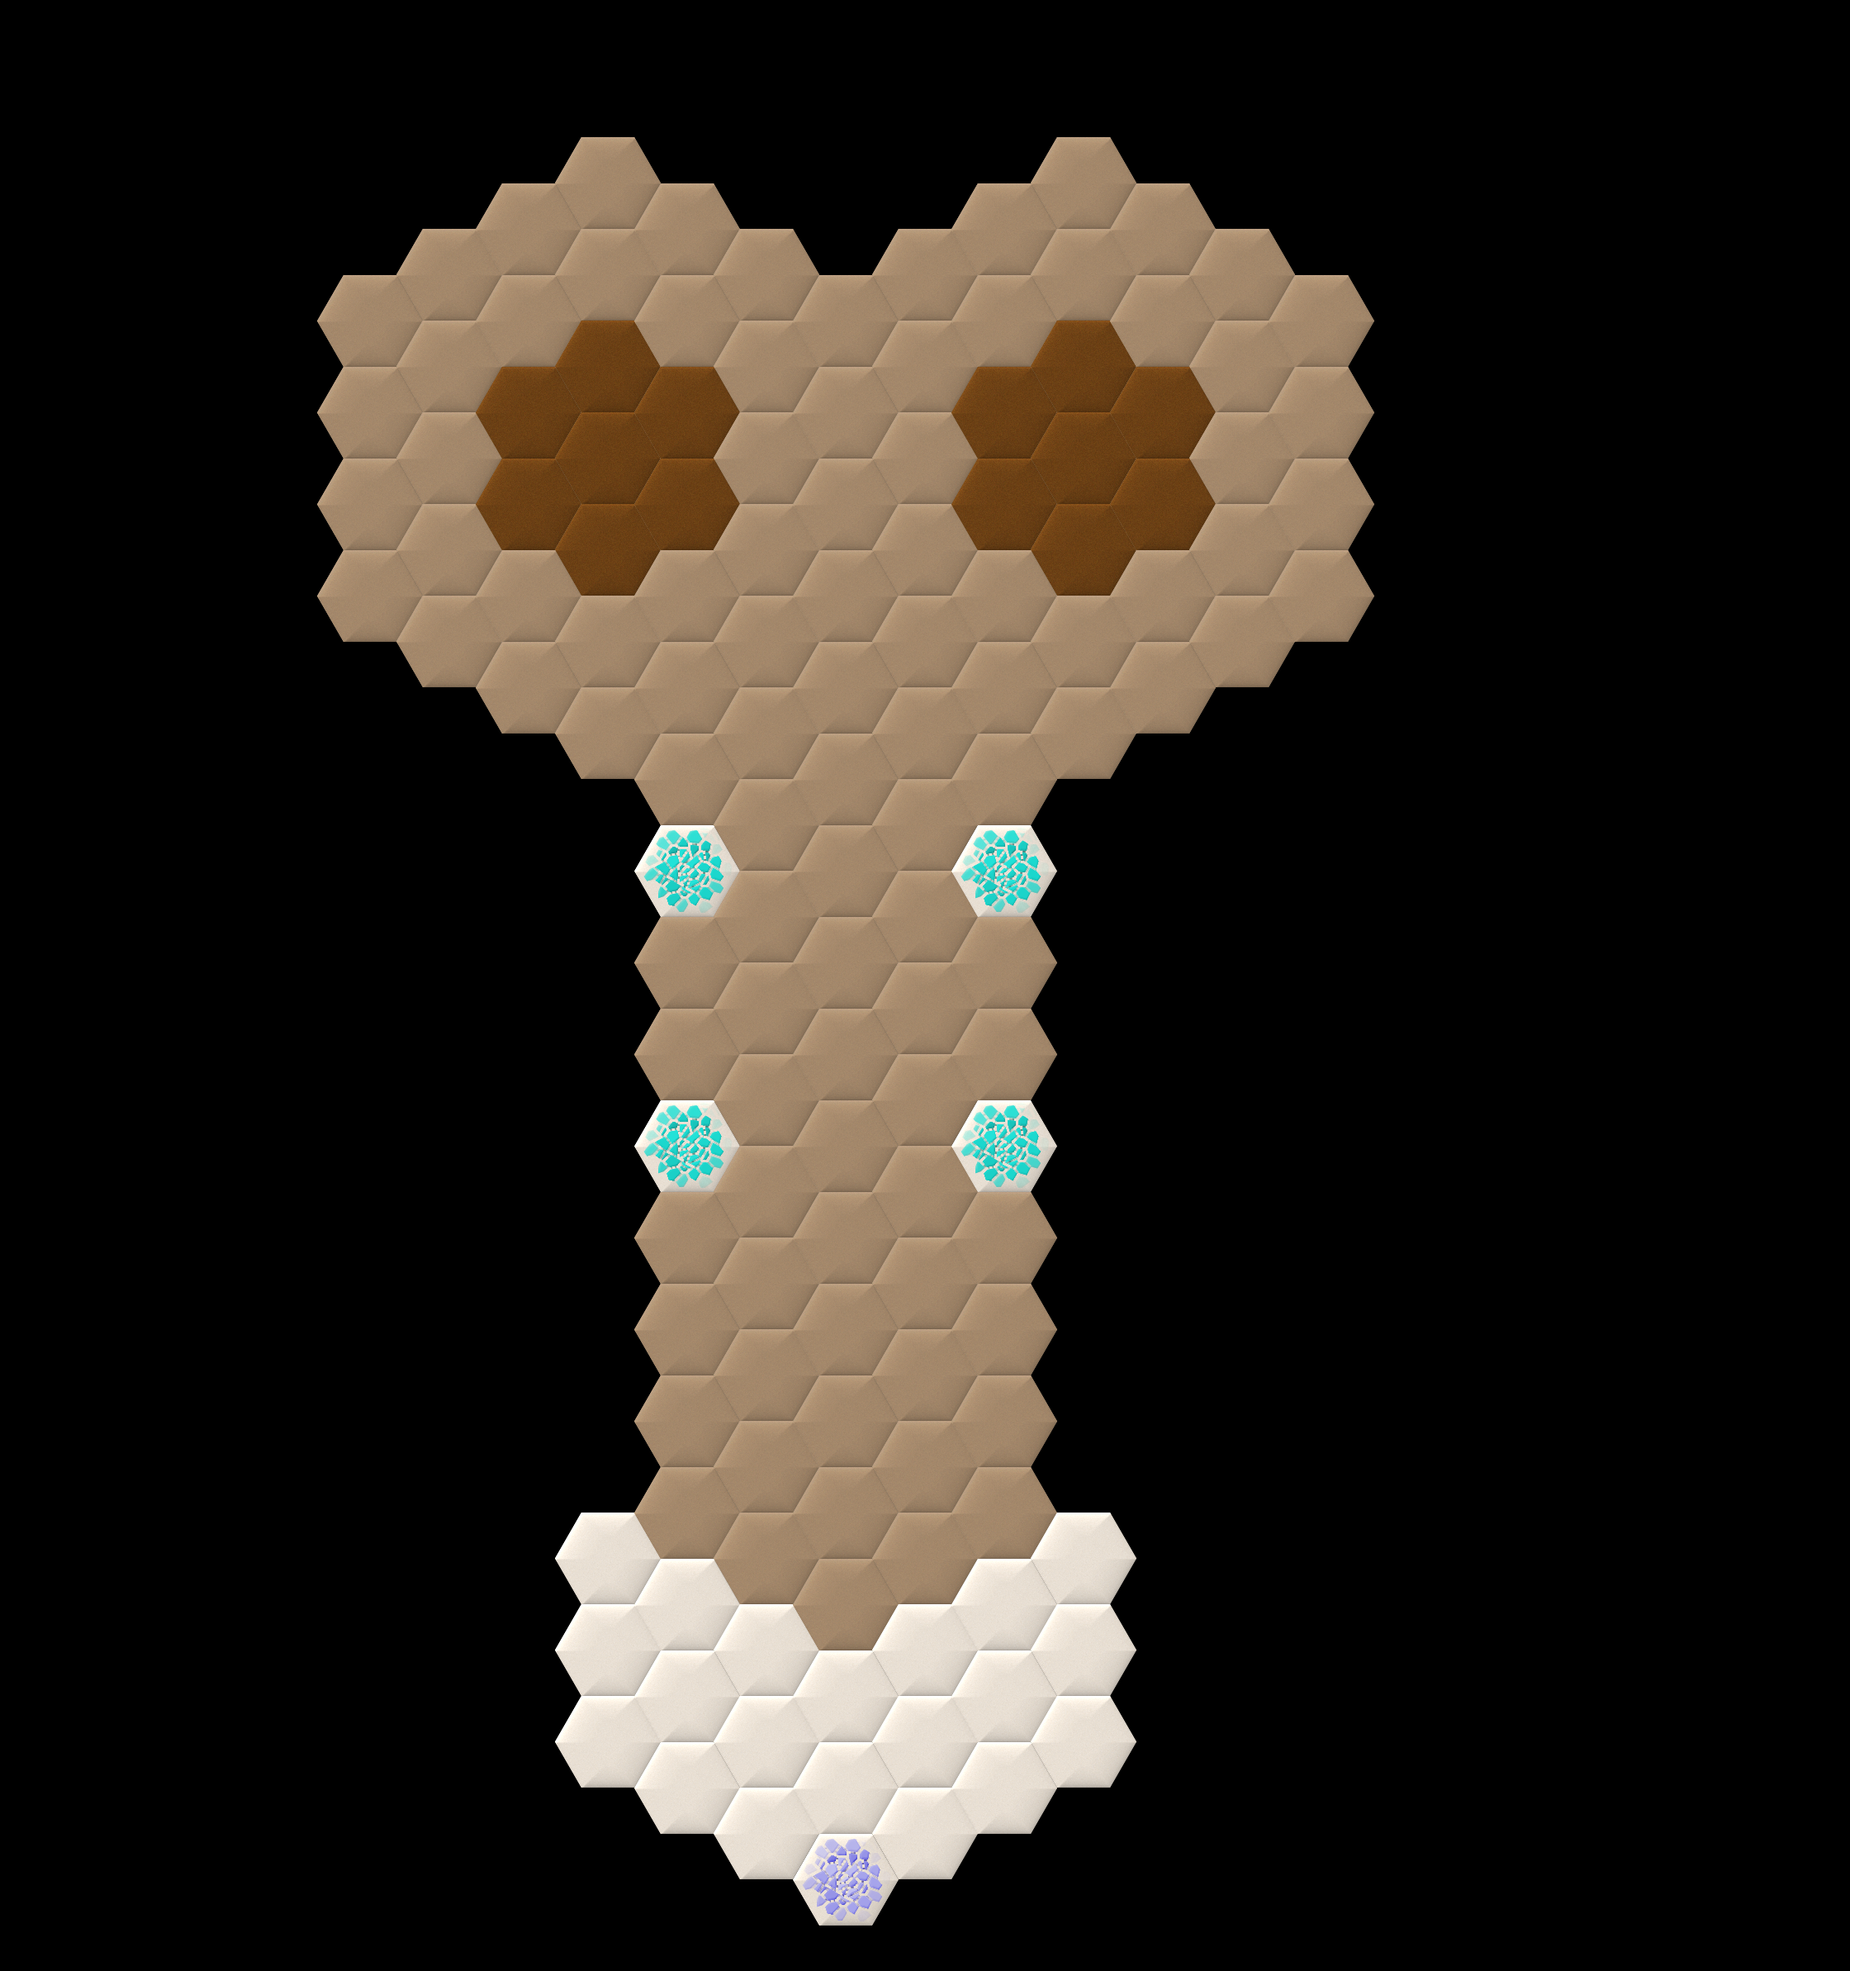
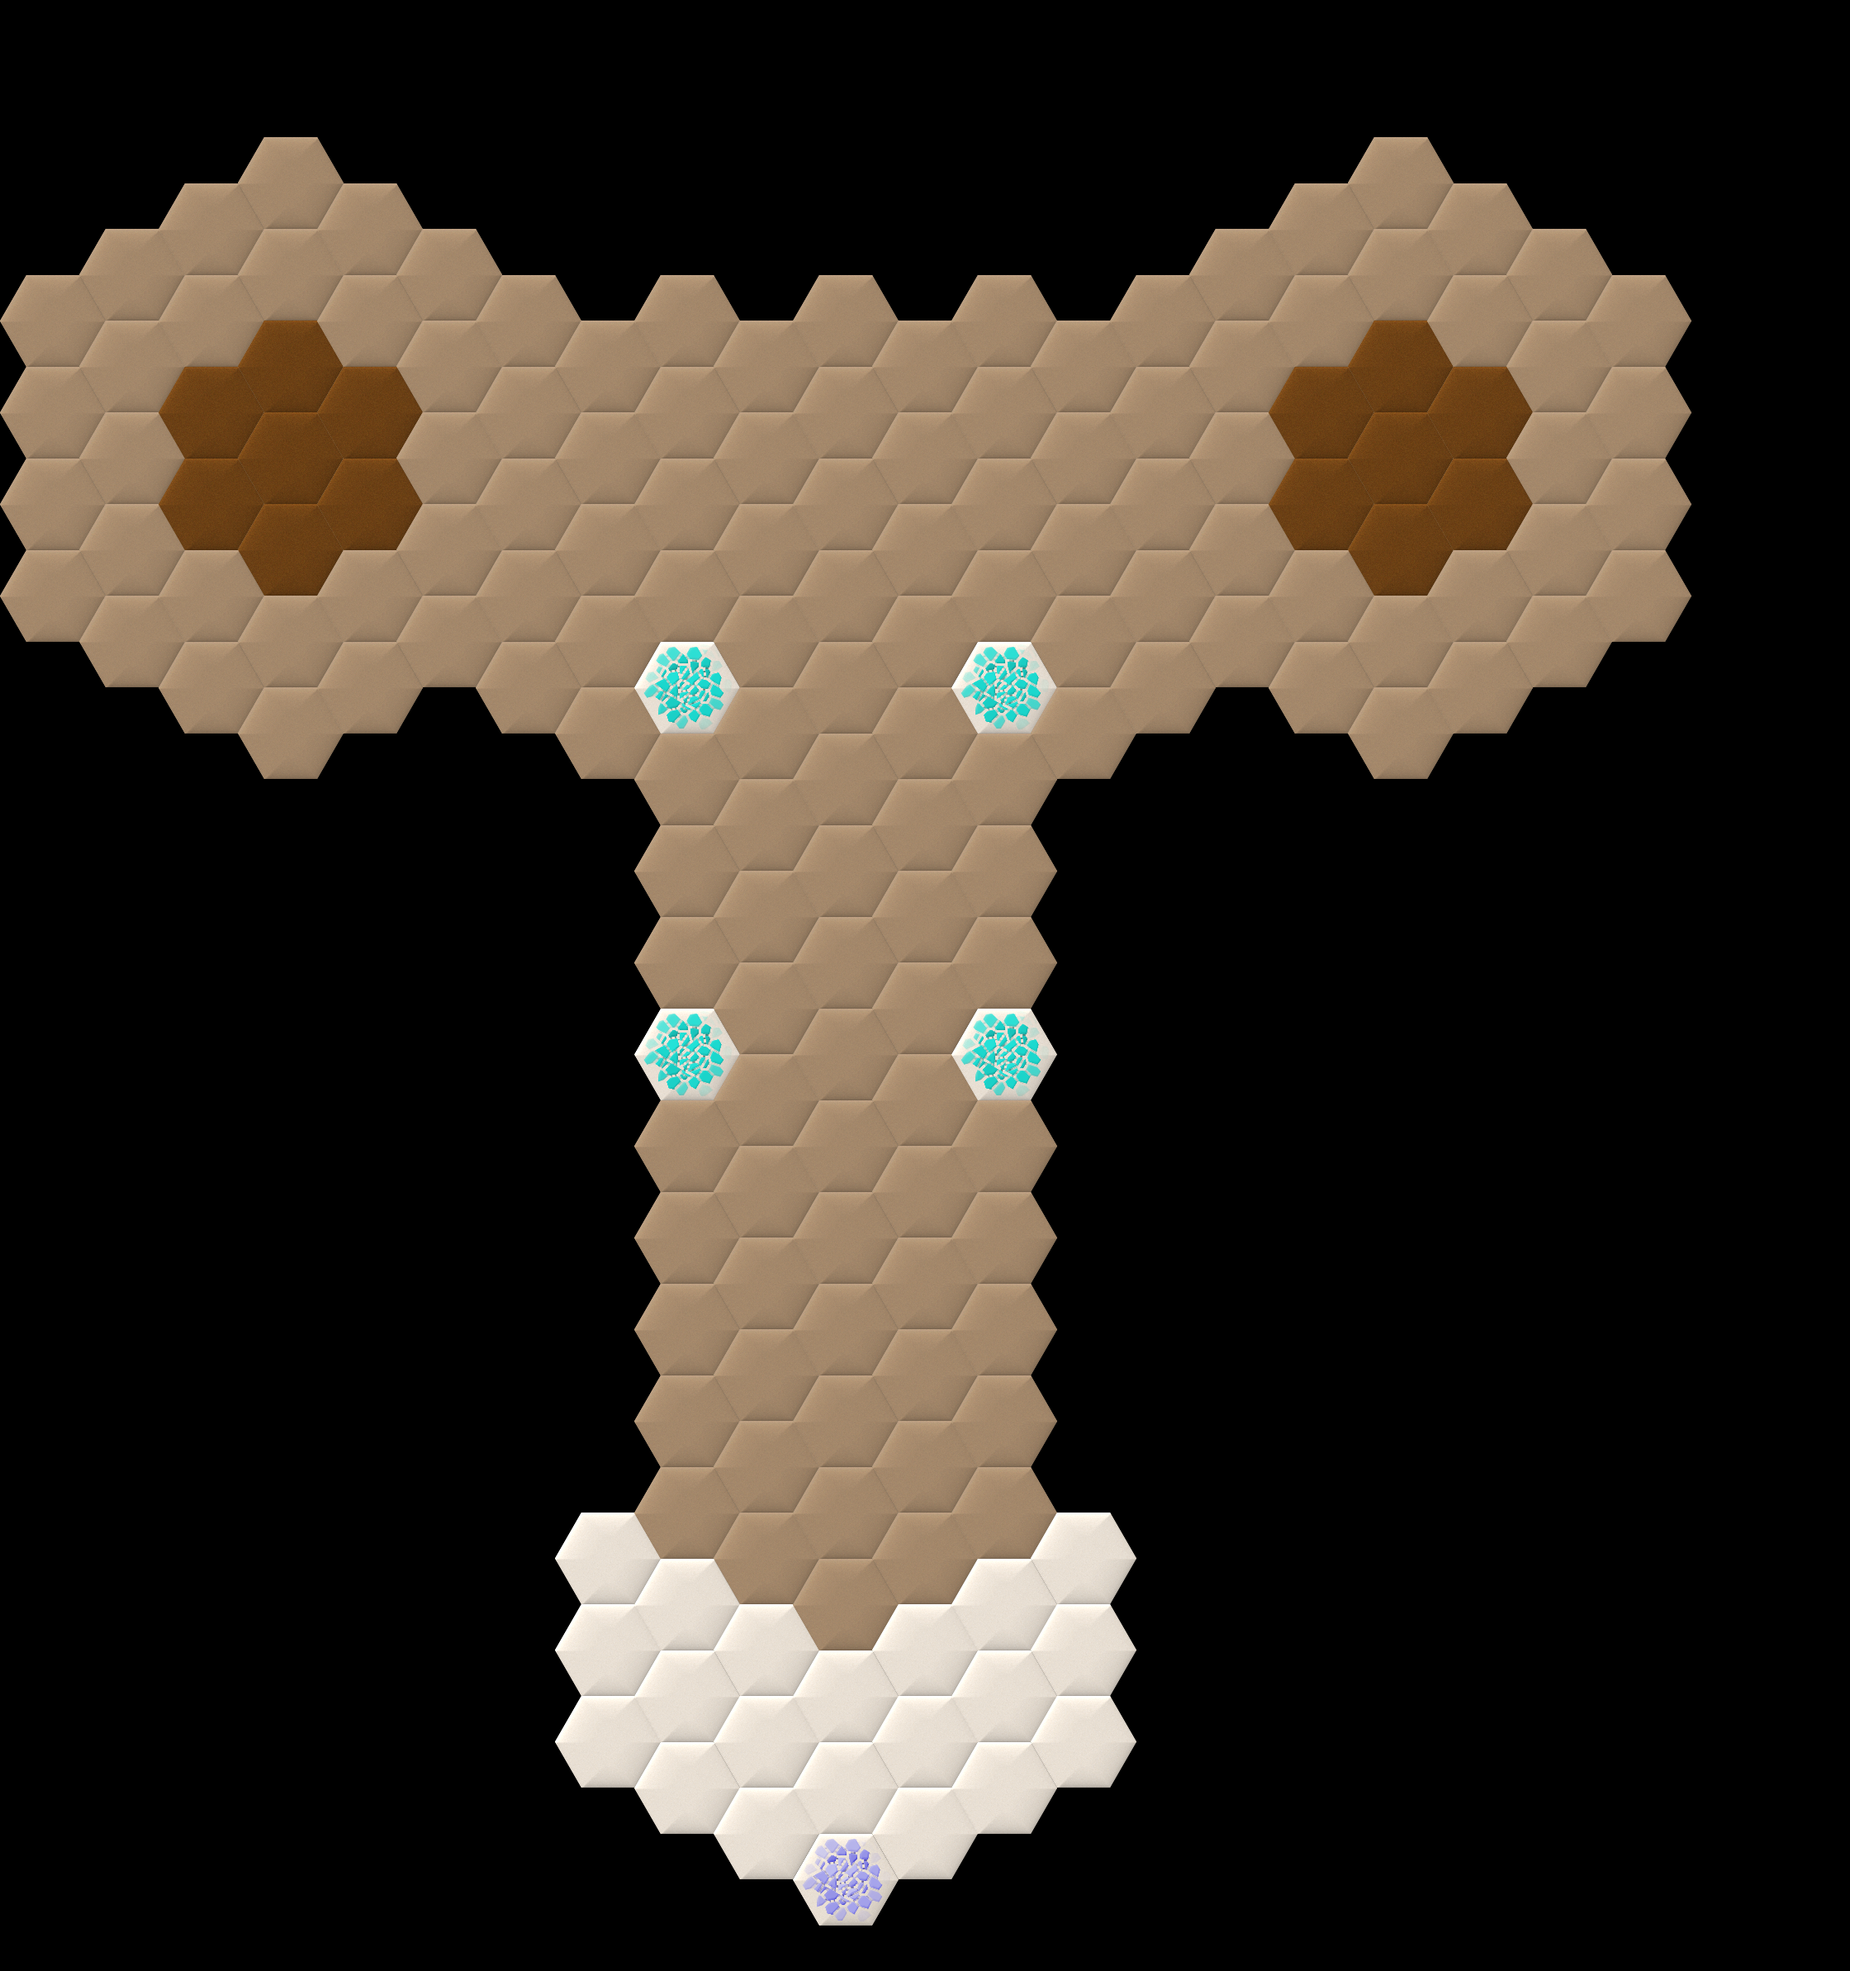
Adjusted coliseum map values.

diff --git a/shared/maps/2p-coliseum.js b/shared/maps/2p-coliseum.js
@@ -5,18 +5,18 @@ module.exports = {
     image: "/resources/maps/2p-coliseum.png",
     data: [
         "0 0 0 0 0 0 0 0 0 0 0 0 0 0 0 0 0 0 0 0 0 0 0",
-        "0 0 0 0 0 0 0 1 0 0 0 0 0 1 0 0 0 0 0 0 0 0 0",
-        "0 0 0 0 0 1 1 1 1 1 0 1 1 1 1 1 0 0 0 0 0 0 0",
-        "0 0 0 0 1 1 1 7 1 1 1 1 1 7 1 1 1 0 0 0 0 0 0",
-        "0 0 0 0 1 1 7 7 7 1 1 1 7 7 7 1 1 0 0 0 0 0 0",
-        "0 0 0 0 1 1 7 7 7 1 1 1 7 7 7 1 1 0 0 0 0 0 0",
-        "0 0 0 0 1 1 1 1 1 1 1 1 1 1 1 1 1 0 0 0 0 0 0",
-        "0 0 0 0 0 0 1 1 1 1 1 1 1 1 1 0 0 0 0 0 0 0 0",
+        "0 0 0 1 0 0 0 0 0 0 0 0 0 0 0 0 0 1 0 0 0 0 0",
+        "0 1 1 1 1 1 0 0 0 0 0 0 0 0 0 1 1 1 1 1 0 0 0",
+        "1 1 1 7 1 1 1 1 1 1 1 1 1 1 1 1 1 7 1 1 1 0 0",
+        "1 1 7 7 7 1 1 1 1 1 1 1 1 1 1 1 7 7 7 1 1 0 0",
+        "1 1 7 7 7 1 1 1 1 1 1 1 1 1 1 1 7 7 7 1 1 0 0",
+        "1 1 1 1 1 1 1 1 1 1 1 1 1 1 1 1 1 1 1 1 1 0 0",
+        "0 0 1 1 1 0 1 1 3 1 1 1 3 1 1 0 1 1 1 0 0 0 0",
+        "0 0 0 0 0 0 0 0 1 1 1 1 1 0 0 0 0 0 0 0 0 0 0",
+        "0 0 0 0 0 0 0 0 1 1 1 1 1 0 0 0 0 0 0 0 0 0 0",
         "0 0 0 0 0 0 0 0 1 1 1 1 1 0 0 0 0 0 0 0 0 0 0",
         "0 0 0 0 0 0 0 0 3 1 1 1 3 0 0 0 0 0 0 0 0 0 0",
         "0 0 0 0 0 0 0 0 1 1 1 1 1 0 0 0 0 0 0 0 0 0 0",
-        "0 0 0 0 0 0 0 0 1 1 1 1 1 0 0 0 0 0 0 0 0 0 0",
-        "0 0 0 0 0 0 0 0 3 1 1 1 3 0 0 0 0 0 0 0 0 0 0",
         "0 0 0 0 0 0 0 0 1 1 1 1 1 0 0 0 0 0 0 0 0 0 0",
         "0 0 0 0 0 0 0 0 1 1 1 1 1 0 0 0 0 0 0 0 0 0 0",
         "0 0 0 0 0 0 0 0 1 1 1 1 1 0 0 0 0 0 0 0 0 0 0",
@@ -29,6 +29,6 @@ module.exports = {
     commandCenterLocations: [new Tuple(7, 4), new Tuple(13, 4)],
     movement: [new Tuple(500, 500)],
     movementIndex: 0,
-    percentageClaimToWin: 0.7,
+    percentageClaimToWin: 0.6,
     teams: [1, 2],
 };

diff --git a/shared/map.js b/shared/map.js
@@ -107,6 +107,7 @@ const maps = {
     '2p-anchor': require('./maps/2p-anchor.js'),
     '2p-duel': require('./maps/2p-duel.js'),
     '2p-cornucopia': require('./maps/2p-cornucopia.js'),
+    '2p-coliseum': require('./maps/2p-cornucopia.js'),
     '2v2': require('./maps/2v2.js'),
     'testMap': require('./maps/testMap.js'),
     'pve': require('./maps/pve.js')
